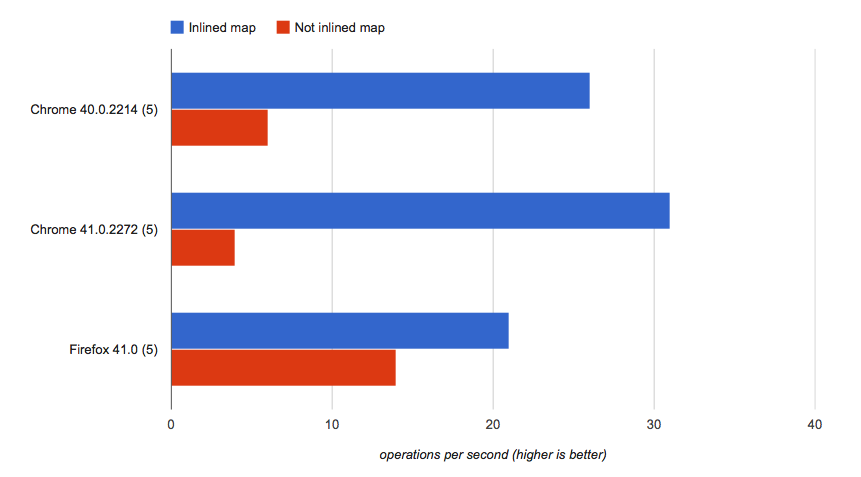
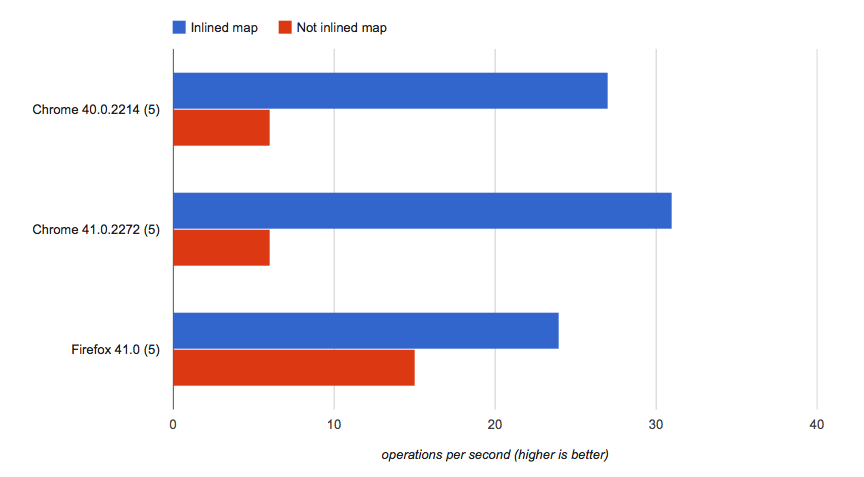
updates inlining and cache benchmarks.

diff --git a/spikes/3.1.3/functionCache/functionCache.js b/spikes/3.1.3/functionCache/functionCache.js
@@ -1,4 +1,4 @@
-// http://jsperf.com/p-j-s-with-vs-without-function-cache/3
+// http://jsperf.com/p-j-s-with-vs-without-function-cache/4
 
 // HTML setup
 <script src="http://rawgit.com/pjsteam/pjs/1bf39be3012cedf13fdf2f85bd4b1197eaabde96/dist/p-j-s.min.js"></script>

diff --git a/spikes/3.1.3/pjsMapInlining/pjsMapInlining.js b/spikes/3.1.3/pjsMapInlining/pjsMapInlining.js
@@ -1,4 +1,4 @@
-// http://jsperf.com/pjs-map-inlining/6
+// http://jsperf.com/pjs-map-inlining/7
 
 // HTML setup
 <script src="http://rawgit.com/pjsteam/pjs/v1.0.0-beta/dist/p-j-s.min.js"></script>

diff --git a/docs/report/function_caching.tex b/docs/report/function_caching.tex
@@ -5,7 +5,7 @@ Before comparing the sequential implementation of \code{map} against the paralle
 We decided to introduce a simple key/value map acting as a cache where the keys are \tstring{}s with the function's code and the values are the \tfunction{} objects.
 
 To verify its performance we created a benchmark that runs both with and without the function cache:
-\bmcode{http://jsperf.com/p-j-s-with-vs-without-function-cache/3}{../../spikes/3.1.3/functionCache/functionCache.js}
+\bmcode{http://jsperf.com/p-j-s-with-vs-without-function-cache/4}{../../spikes/3.1.3/functionCache/functionCache.js}
 
 The results for the benchmark are displayed in Figure~\ref{fig:function-cache-result}.
 \img{Comparing p-j-s \code{map} with and without a function cache}{../../spikes/3.1.3/functionCache/functionCache}{fig:function-cache-result}

diff --git a/docs/report/inlining.tex b/docs/report/inlining.tex
@@ -106,7 +106,7 @@ pjs(buff).map(function(pixel){
 \end{lstlisting}
 
 We created a benchmark to understand the difference between the initial version (the one in which functions were not inlined) and the final one (with inlining in charge of the developer):
-\bmcode{http://jsperf.com/pjs-map-inlining/6}{../../spikes/3.1.3/pjsMapInlining/pjsMapInlining.js}
+\bmcode{http://jsperf.com/pjs-map-inlining/7}{../../spikes/3.1.3/pjsMapInlining/pjsMapInlining.js}
 
 The results for it are displayed in Figure~\ref{fig:pjs-map-inlining}.
 \img{Comparing a version of \code{map} without inlining against a developer inlined one}{../../spikes/3.1.3/pjsMapInlining/pjsMapInlining}{fig:pjs-map-inlining}
